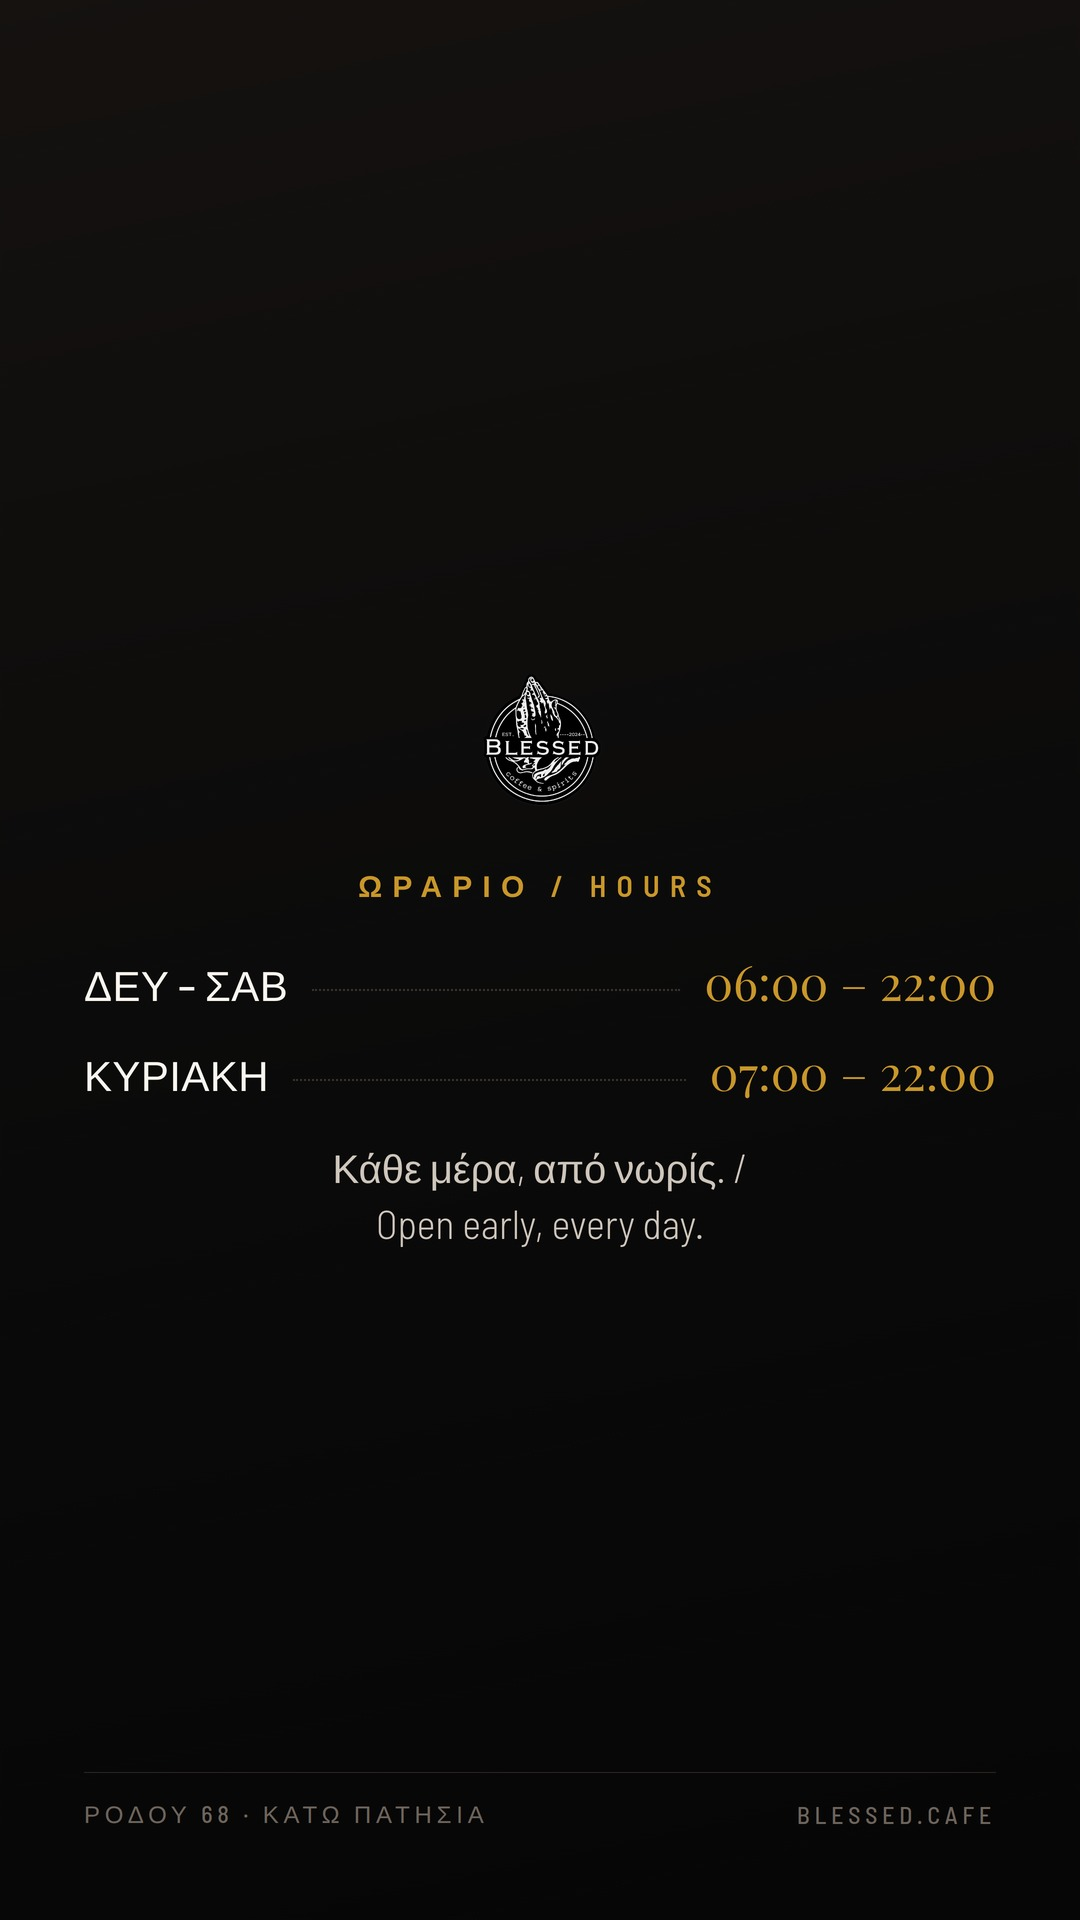
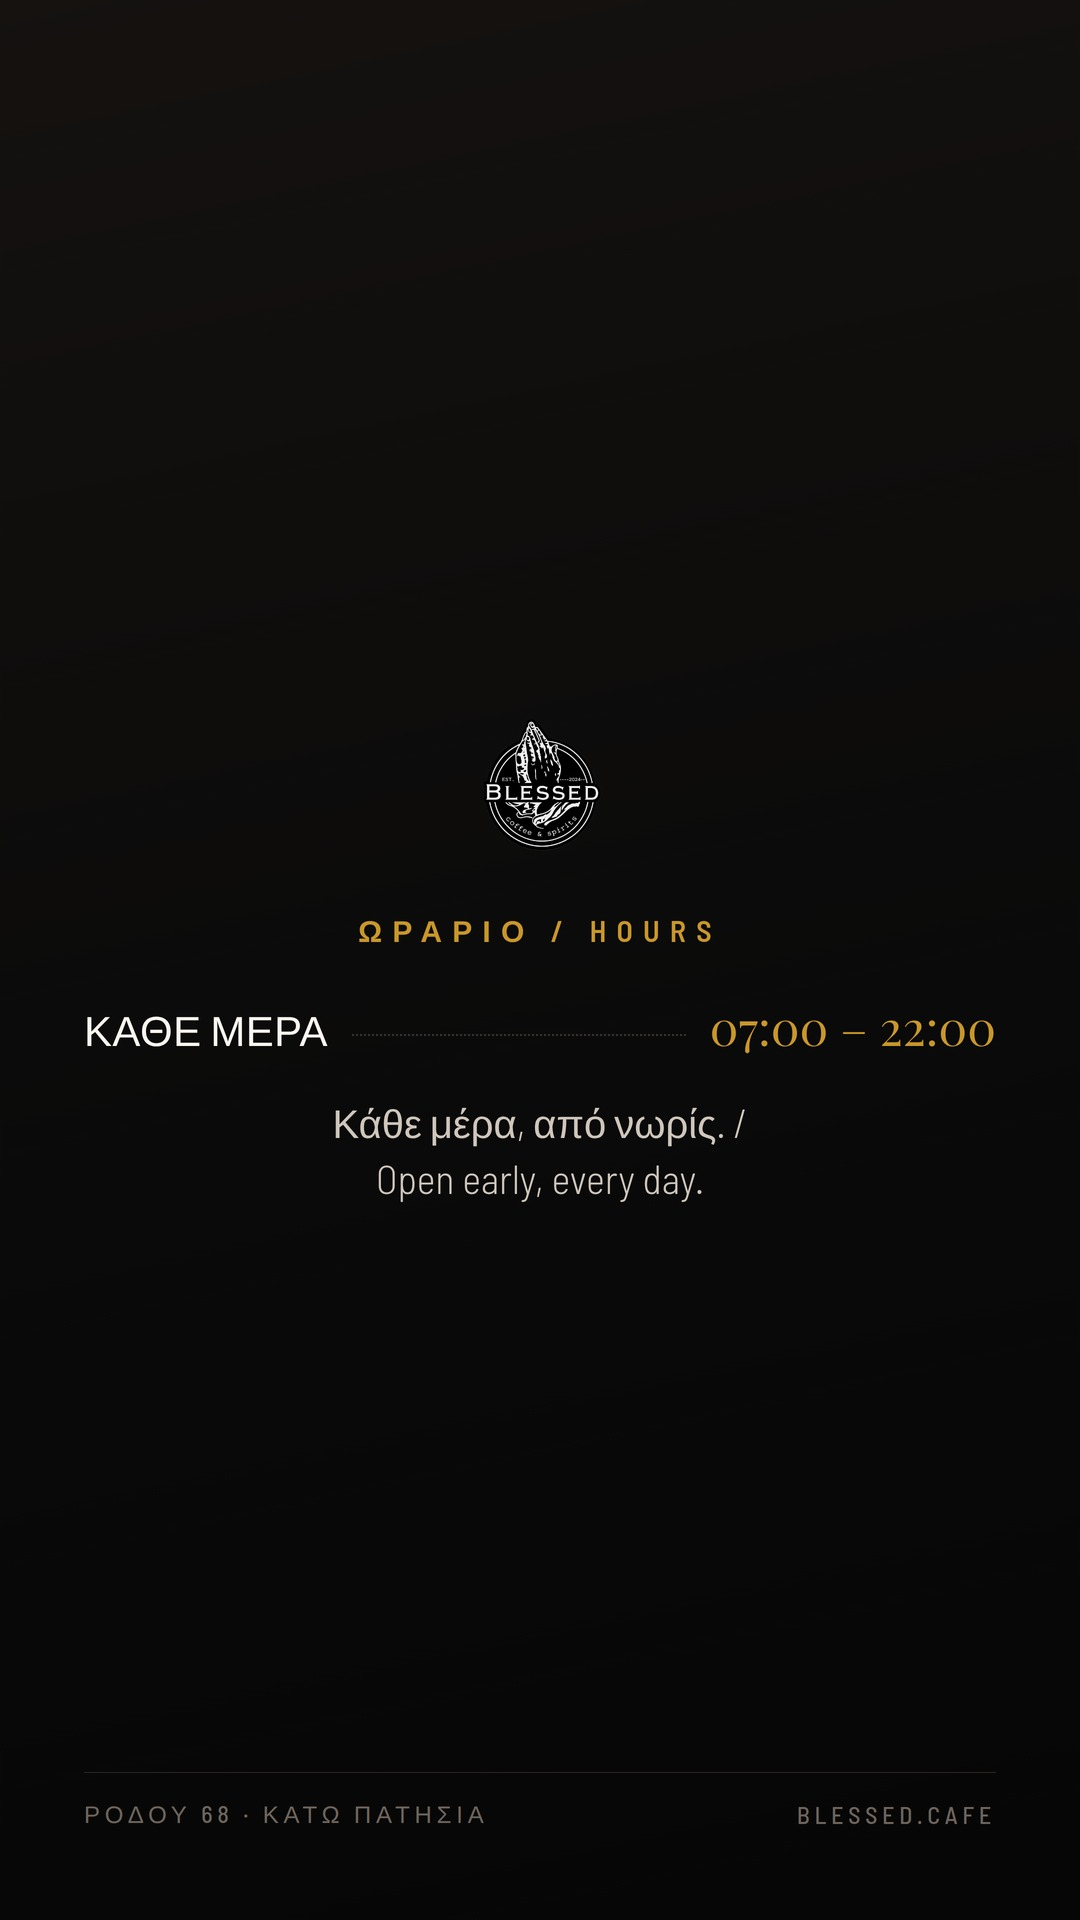
Update opening hours to 07:00-22:00 every day
Site hours list, JSON-LD openingHoursSpecification and meta descriptions,
plus social templates, captions and re-rendered hours/early/espresso-price/
atmosphere-early posts and the open-hours story.

diff --git a/index.html b/index.html
@@ -4,7 +4,7 @@
     <meta charset="UTF-8" />
     <meta name="viewport" content="width=device-width, initial-scale=1.0" />
     <title>Blessed Coffee &amp; Spirits: Cafe in Kato Patisia, Athens</title>
-    <meta name="description" content="Specialty coffee, cocktails and fresh pastries at Rodou 68, Kato Patisia, Athens. Open daily from 06:00. Καφετέρια στα Πατήσια, delivery via e-food, Wolt and Box." />
+    <meta name="description" content="Specialty coffee, cocktails and fresh pastries at Rodou 68, Kato Patisia, Athens. Open daily from 07:00. Καφετέρια στα Πατήσια, delivery via e-food, Wolt and Box." />
     <link rel="canonical" href="https://www.blessed.cafe/" />
     <!-- Open Graph -->
     <meta property="og:type" content="website" />
@@ -12,7 +12,7 @@
     <meta property="og:locale" content="en_US" />
     <meta property="og:locale:alternate" content="el_GR" />
     <meta property="og:title" content="Blessed Coffee &amp; Spirits: Cafe in Kato Patisia, Athens" />
-    <meta property="og:description" content="Specialty coffee, cocktails and fresh pastries at Rodou 68, Kato Patisia, Athens. Open daily from 06:00." />
+    <meta property="og:description" content="Specialty coffee, cocktails and fresh pastries at Rodou 68, Kato Patisia, Athens. Open daily from 07:00." />
     <meta property="og:url" content="https://www.blessed.cafe/" />
     <meta property="og:image" content="https://www.blessed.cafe/background.webp" />
     <meta property="og:image:width" content="1920" />
@@ -51,13 +51,7 @@
       "openingHoursSpecification": [
         {
           "@type": "OpeningHoursSpecification",
-          "dayOfWeek": ["Monday", "Tuesday", "Wednesday", "Thursday", "Friday", "Saturday"],
-          "opens": "06:00",
-          "closes": "22:00"
-        },
-        {
-          "@type": "OpeningHoursSpecification",
-          "dayOfWeek": "Sunday",
+          "dayOfWeek": ["Monday", "Tuesday", "Wednesday", "Thursday", "Friday", "Saturday", "Sunday"],
           "opens": "07:00",
           "closes": "22:00"
         }
@@ -113,8 +107,7 @@
           <a href="tel:+306932917800">693 291 7800</a></p>
         <h2>Opening hours</h2>
         <ul>
-          <li>Monday to Saturday: 06:00 to 22:00</li>
-          <li>Sunday: 07:00 to 22:00</li>
+          <li>Every day: 07:00 to 22:00</li>
         </ul>
         <h2>Menu</h2>
         <p>Coffee, soft drinks, pastries and snacks, beer. Greek coffee, freddo
@@ -138,8 +131,7 @@
           <a href="tel:+306932917800">693 291 7800</a></p>
         <h3>Ωράριο λειτουργίας</h3>
         <ul>
-          <li>Δευτέρα έως Σάββατο: 06:00 έως 22:00</li>
-          <li>Κυριακή: 07:00 έως 22:00</li>
+          <li>Κάθε μέρα: 07:00 έως 22:00</li>
         </ul>
         <h3>Το μενού μας</h3>
         <p>Καφές, αναψυκτικά, σνακ και γλυκά, μπύρες. Ελληνικός καφές, freddo

diff --git a/src/App.jsx b/src/App.jsx
@@ -23,7 +23,7 @@ const T = {
     findUsTitle: "Find Us",
     findUsAddress: "Rodou 68, Athens 104 45",
     findUsHours: "Opening Hours",
-    hours: ["Monday – Saturday: 06:00 – 22:00", "Sunday: 07:00 – 22:00"],
+    hours: ["Every day: 07:00 – 22:00"],
     menuTitle: "Our Menu",
     menuSub: "Fresh coffee grounds, crafted with love.",
     menuCTA: "Want to order? Call us!",
@@ -87,7 +87,7 @@ const T = {
     findUsTitle: "Βρείτε μας",
     findUsAddress: "Ρόδου 68, Αθήνα 104 45",
     findUsHours: "Ωραριο λειτουργιας",
-    hours: ["Δευτέρα – Σάββατο: 06:00 – 22:00", "Κυριακή: 07:00 – 22:00"],
+    hours: ["Κάθε μέρα: 07:00 – 22:00"],
     menuTitle: "Το Μενού μας",
     menuSub: "Φρέσκα υλικά και μεράκι.",
     menuCTA: "Θέλετε να παραγγείλετε; Καλέστε μας!",

diff --git a/social/seasonal-plate-prompts.md b/social/seasonal-plate-prompts.md
@@ -33,7 +33,7 @@ aspect ratio. Anonymous, generic Athens architecture, no famous landmark, no mon
 recognisable building, no readable signage or text, no people. Bright, positive, inviting mood,
 like a real photograph, not an illustration, not cartoonish or garish.
 
-## `atmosphere-early` (06:00 / before sunrise)
+## `atmosphere-early` (07:00 / early morning)
 
 A photorealistic documentary style photograph of a central Athens neighbourhood square in early
 morning golden light, sun flare through tree leaves, clean pastel-coloured buildings, a few wooden
